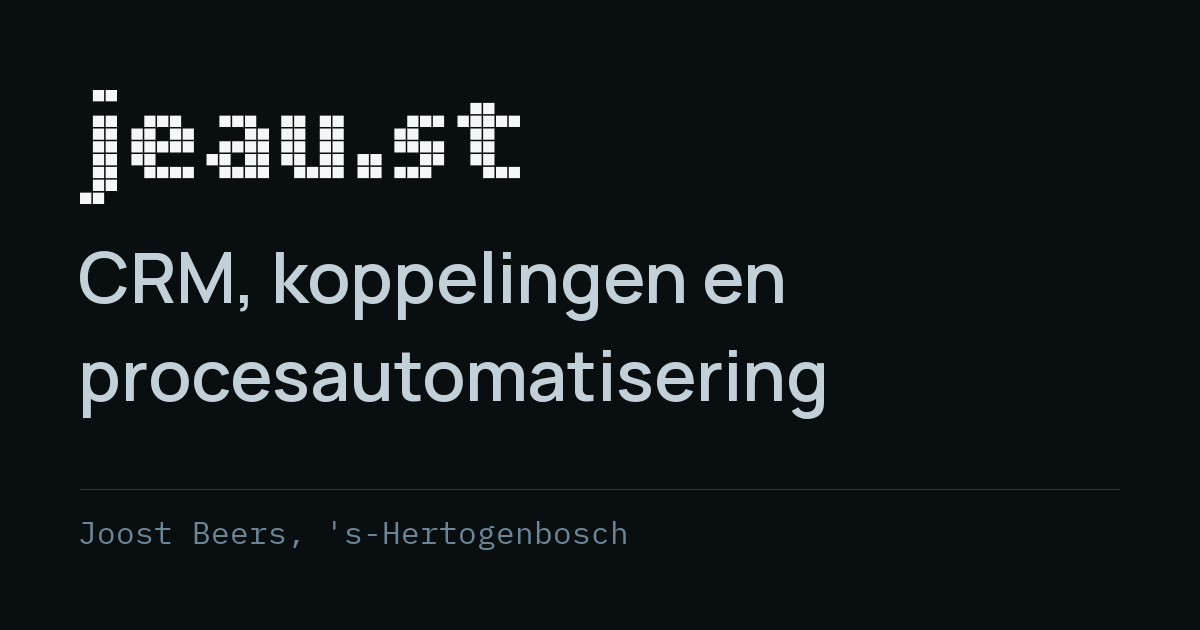
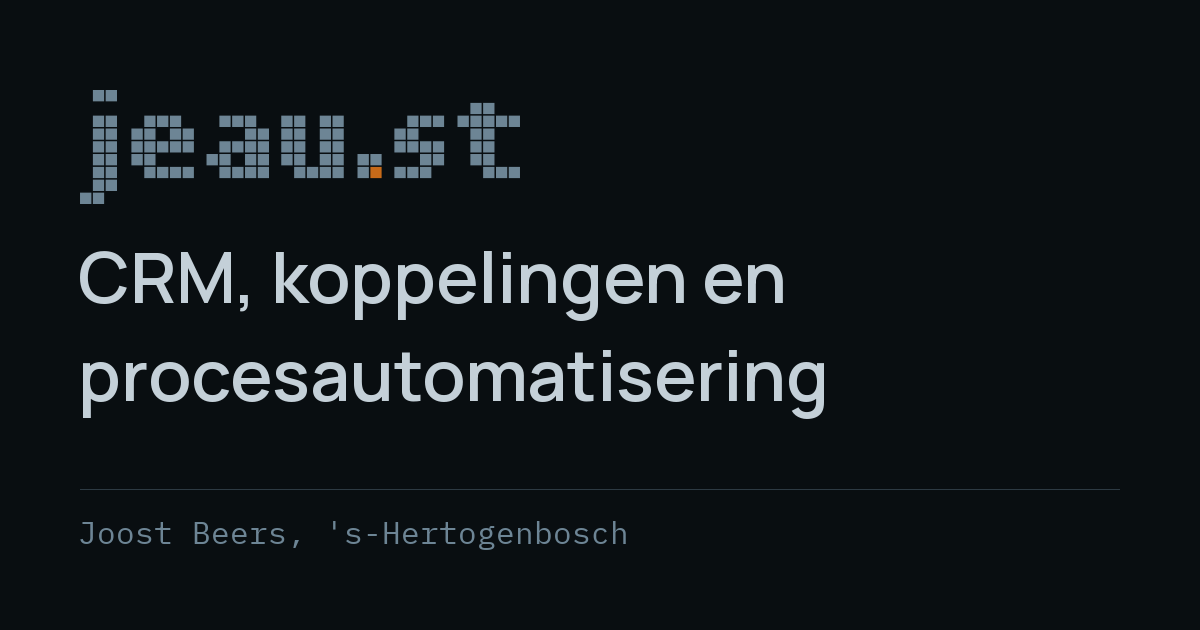
Zet het woordmerk in zacht met het accent in de punt
Het merk stond in een eigen token, zwart in licht en wit in donker, en
daarmee zat het hardste contrast van de pagina in het ene element dat
nergens heen wijst. Nu staat het in zacht, met het blokje rechtsonder
in de punt in het accent. Dat is ook de favicon, dus de tabbalk en de
pagina tonen hetzelfde teken. Het token `merk` is weg.

Twee paden in plaats van een, want het accent past niet in hetzelfde
pad. De og-plaat leest ze allebei uit de component, zodat er een bron
van waarheid blijft.

Changed region(s): [[0.0617, 0.1206, 0.4317, 0.3317]]

diff --git a/src/styles/global.css b/src/styles/global.css
@@ -56,7 +56,6 @@
   --c-kop: #c4d0d8;
   --c-accent: #c76a19;
   --c-op-accent: #090e11;
-  --c-merk: #f4f6f7;
 }
 
 :root[data-thema="licht"] {
@@ -72,7 +71,6 @@
   --c-kop: #28353e;
   --c-accent: #a75915;
   --c-op-accent: #f8fafc;
-  --c-merk: #101519;
 }
 
 @theme {
@@ -111,11 +109,6 @@
   --color-kop: var(--c-kop);
   --color-accent: var(--c-accent);
   --color-op-accent: var(--c-op-accent);
-  /* Alleen het woordmerk. Zwart in licht en wit in donker, dezelfde
-     waarde als de tekst. Apart benoemd zodat je het woordmerk kunt
-     verzetten zonder de tekst, en andersom. */
-  --color-merk: var(--c-merk);
-
   /* Vaste merkkleuren, alleen waar een kleur per se niet mag wisselen.
      Het percentage is het aandeel van het doek dat deze cluster beslaat. */
   --color-inkt: #272b34; /* 3,8%, het diepste blauwzwart in de jas */
